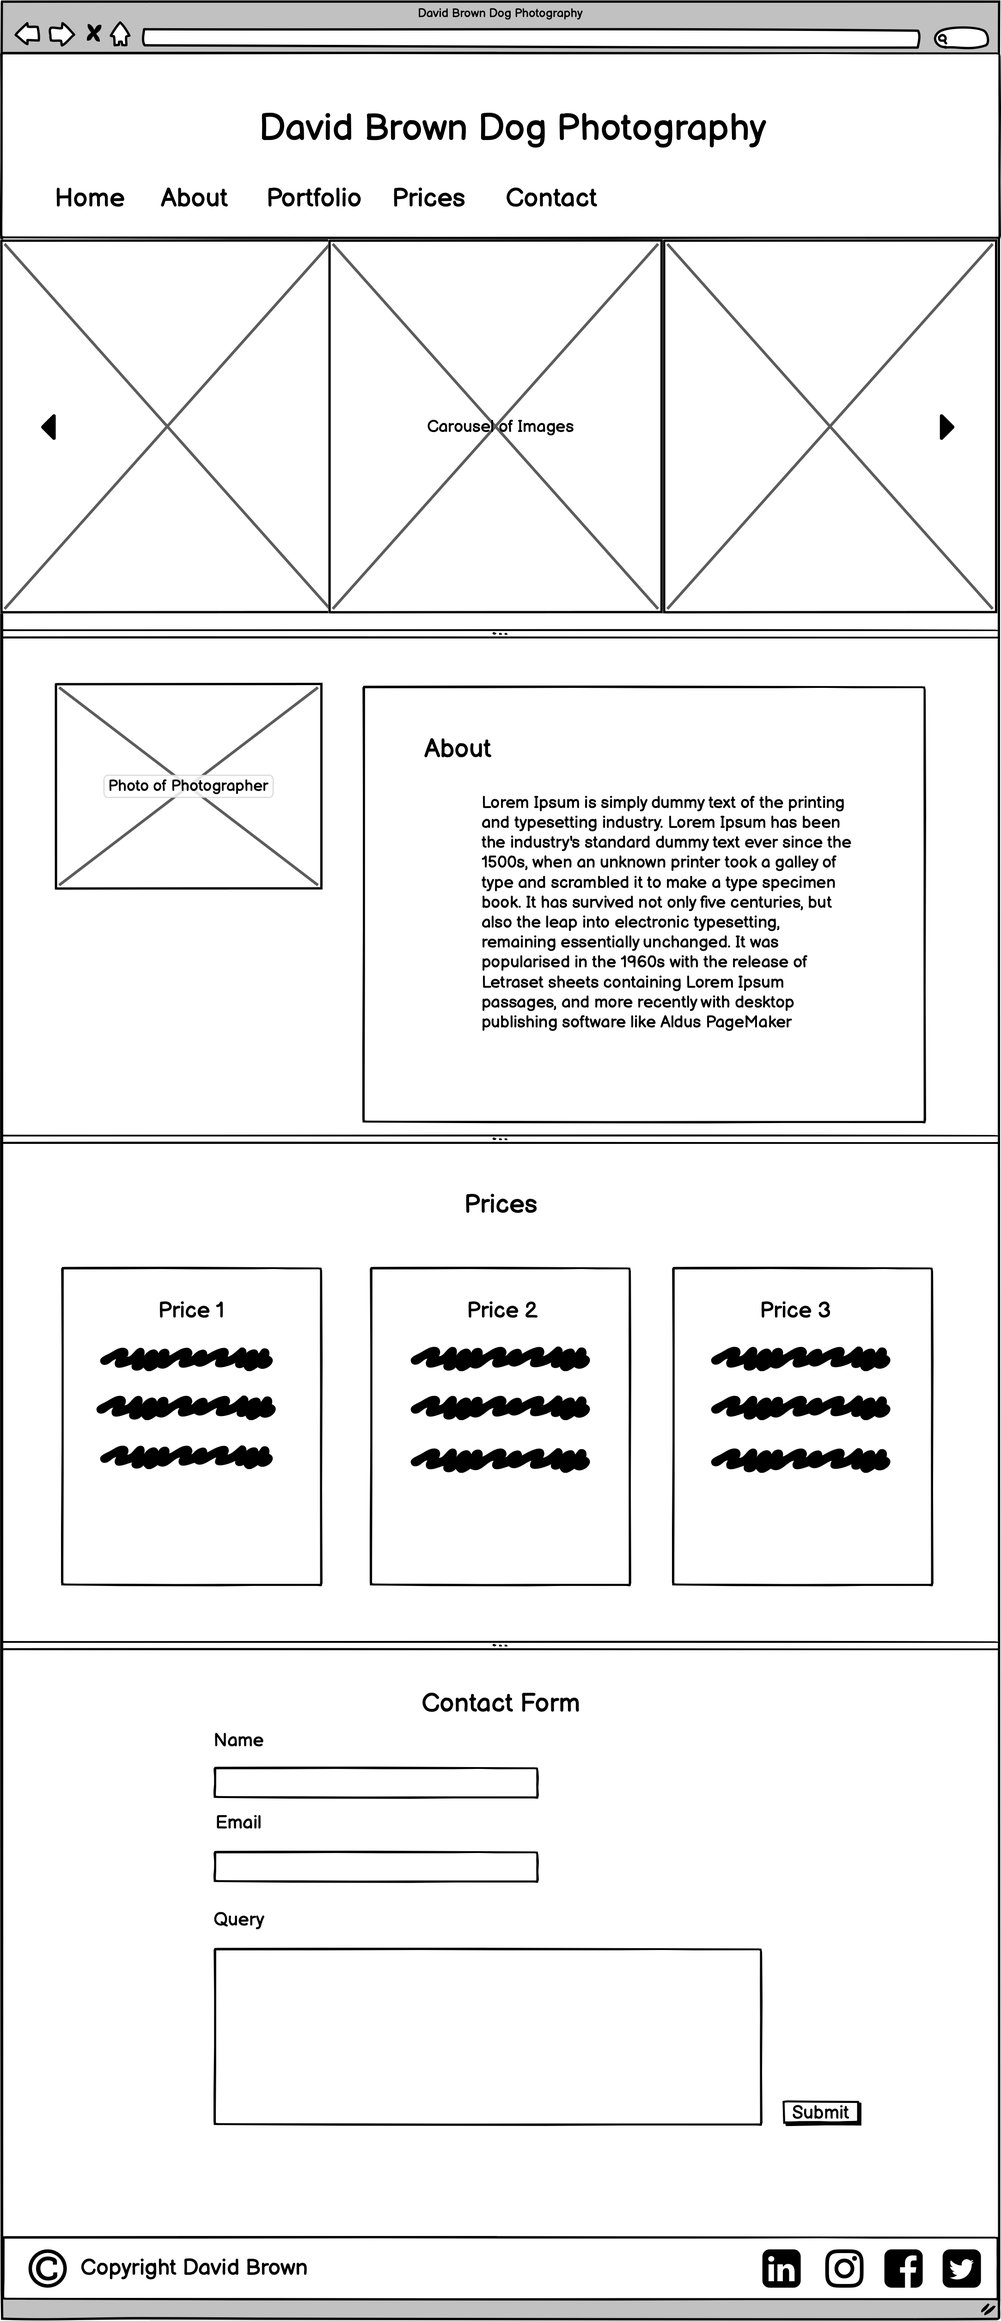
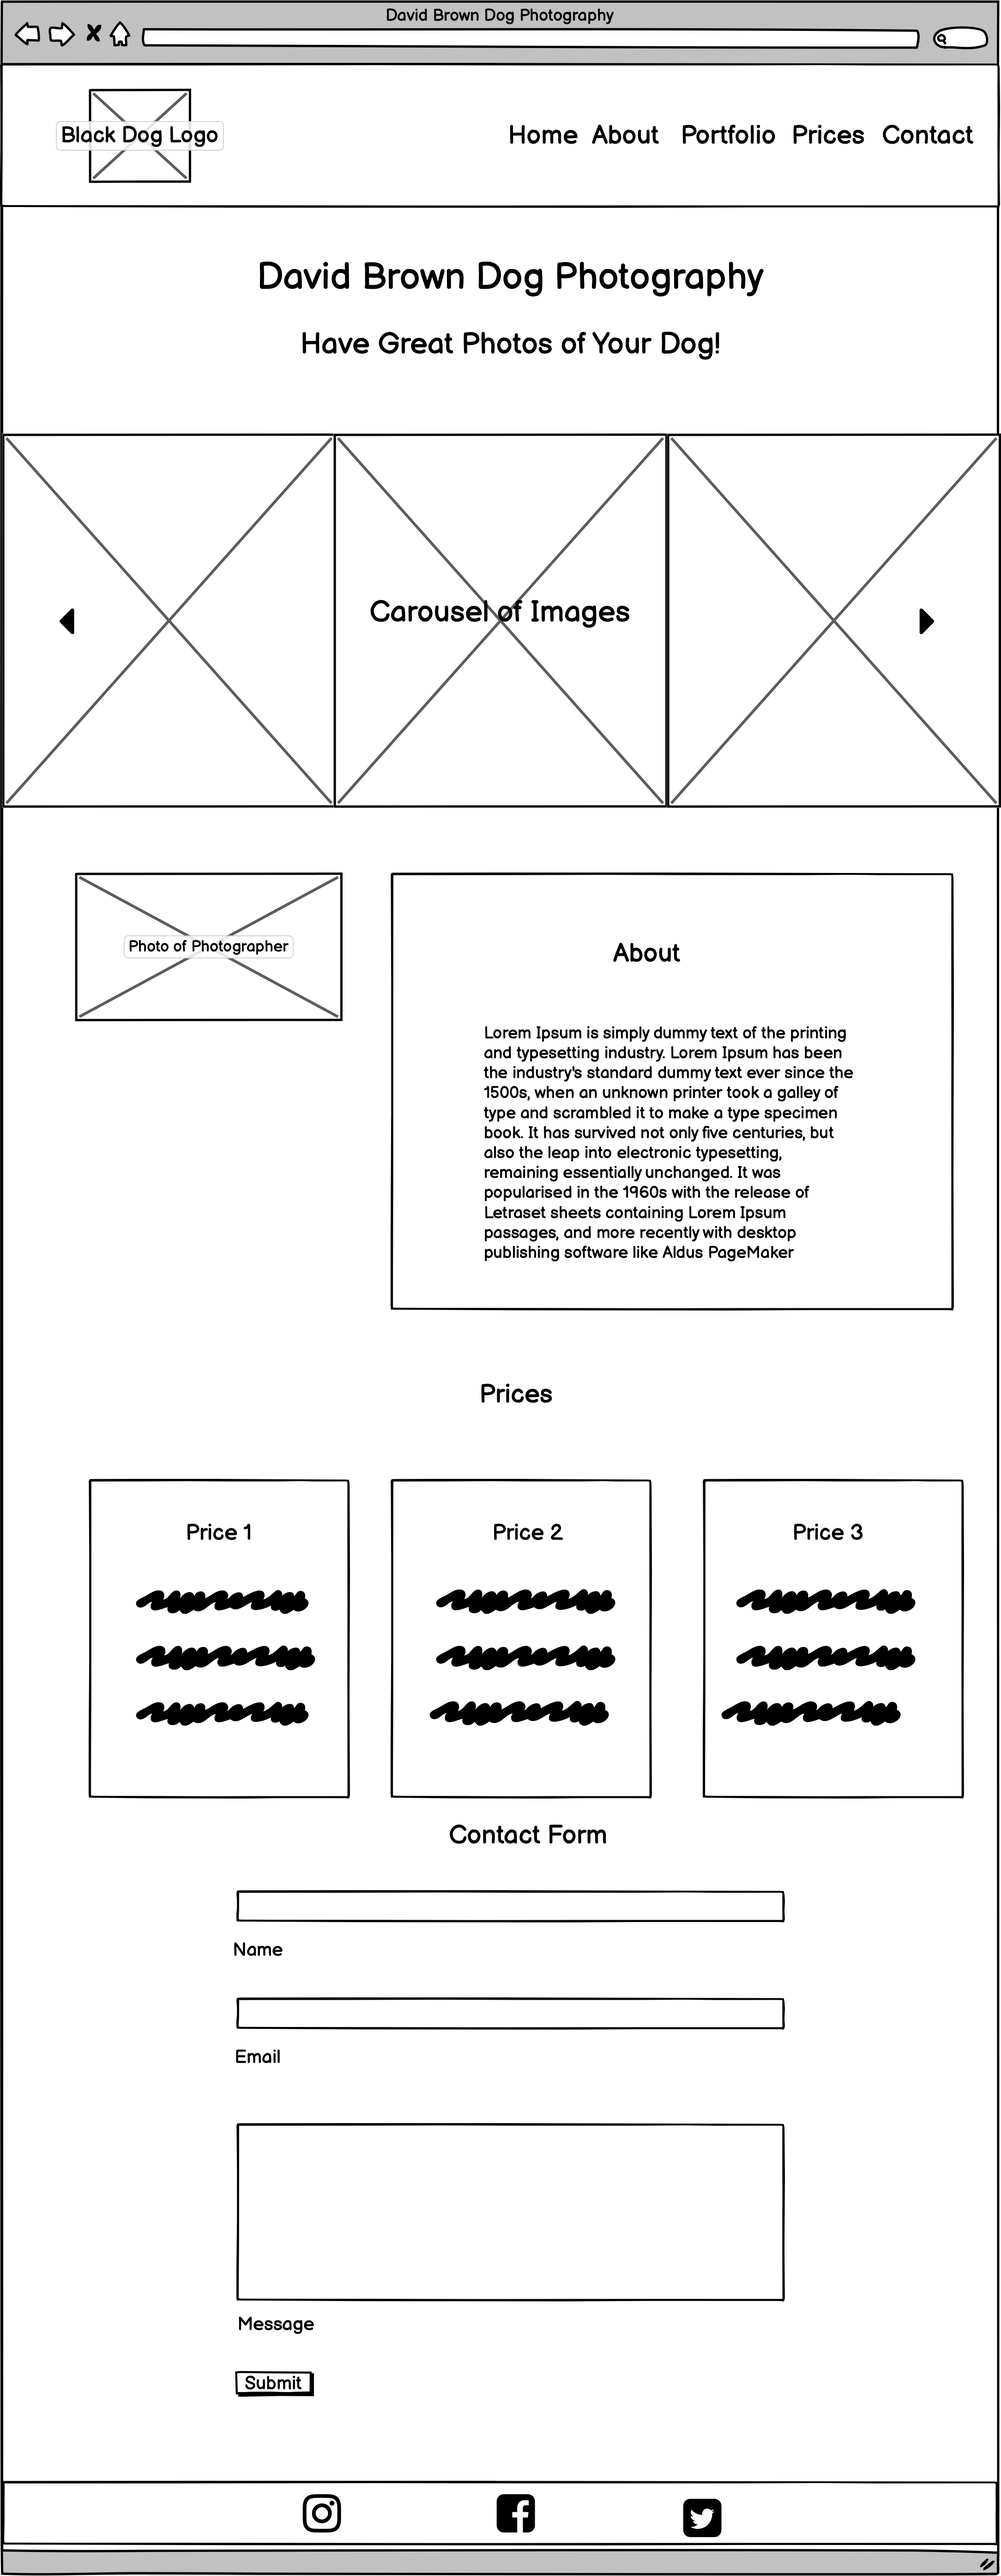
updated README and wireframes

diff --git a/README.md b/README.md
@@ -136,15 +136,25 @@ I have used [Font Awesome library](https://fontawesome.com/ "Font Awesome"), to 
 ### **Images**
 For the carousel and the portfolio the images are from my own personal collection.
 The image for the contact section is a stock photo from a google search, found here ********
+The logo of the black dog was from stock images free to download that I found at:
+**[Dog Logo](https://www.cleanpng.com/png-labrador-retriever-puppy-boxer-silhouette-dachshun-7025733/)**
 
 ### **Colours**
 The reason I have choosen this pallete, is that I feel the colours suit the style I wanted to give. A calm inviting place, engaging the emotions of a dog owner.
-The colour scheme I have chosen can be seen here *****
+The colour scheme I have chosen can be seen here:
+**[Coolors](https://coolors.co/8e9aaf-cbc0d3-efd3d7-feeafa-dee2ff)**
+
+* #FEEAFA is the colour I used for the main background. I wanted a colour that would soft to the eyes and nbot dominate the page.
+* #DEE2FF I decided to use for the header. I needed a colour that seperate the navbar from the background colour, but again a soft pallete.
+I also used this colour for the text fields and the portfolio images to give them seperation.
+* #8E9AAF i was going to use this colour for the main text. however, I discovered that the contrast was too low and coluld not be seen clearly.
+I did not want to use black, so I went with a darker gray
+which is: #545C68
 
 ### **Structure**
 To build the structure of the website, I have gone with **[Bootstrap](https://getbootstrap.com/)** 
-This will give the foundation to construct a responsive website, that I can then style with [CSS](https://en.wikipedia.org/wiki/Cascading_Style_Sheets)
-Bootstrap is mobile first by default and this will allow me to adapt the website for tablets and computers
+This will give the foundation to construct a responsive website, that I can then style with **[CSS](https://en.wikipedia.org/wiki/Cascading_Style_Sheets)**
+Bootstrap is mobile first by default and this will allow me to adapt the website for tablets and computers.
 
 
 [Back to Top](#table-of-contents)
